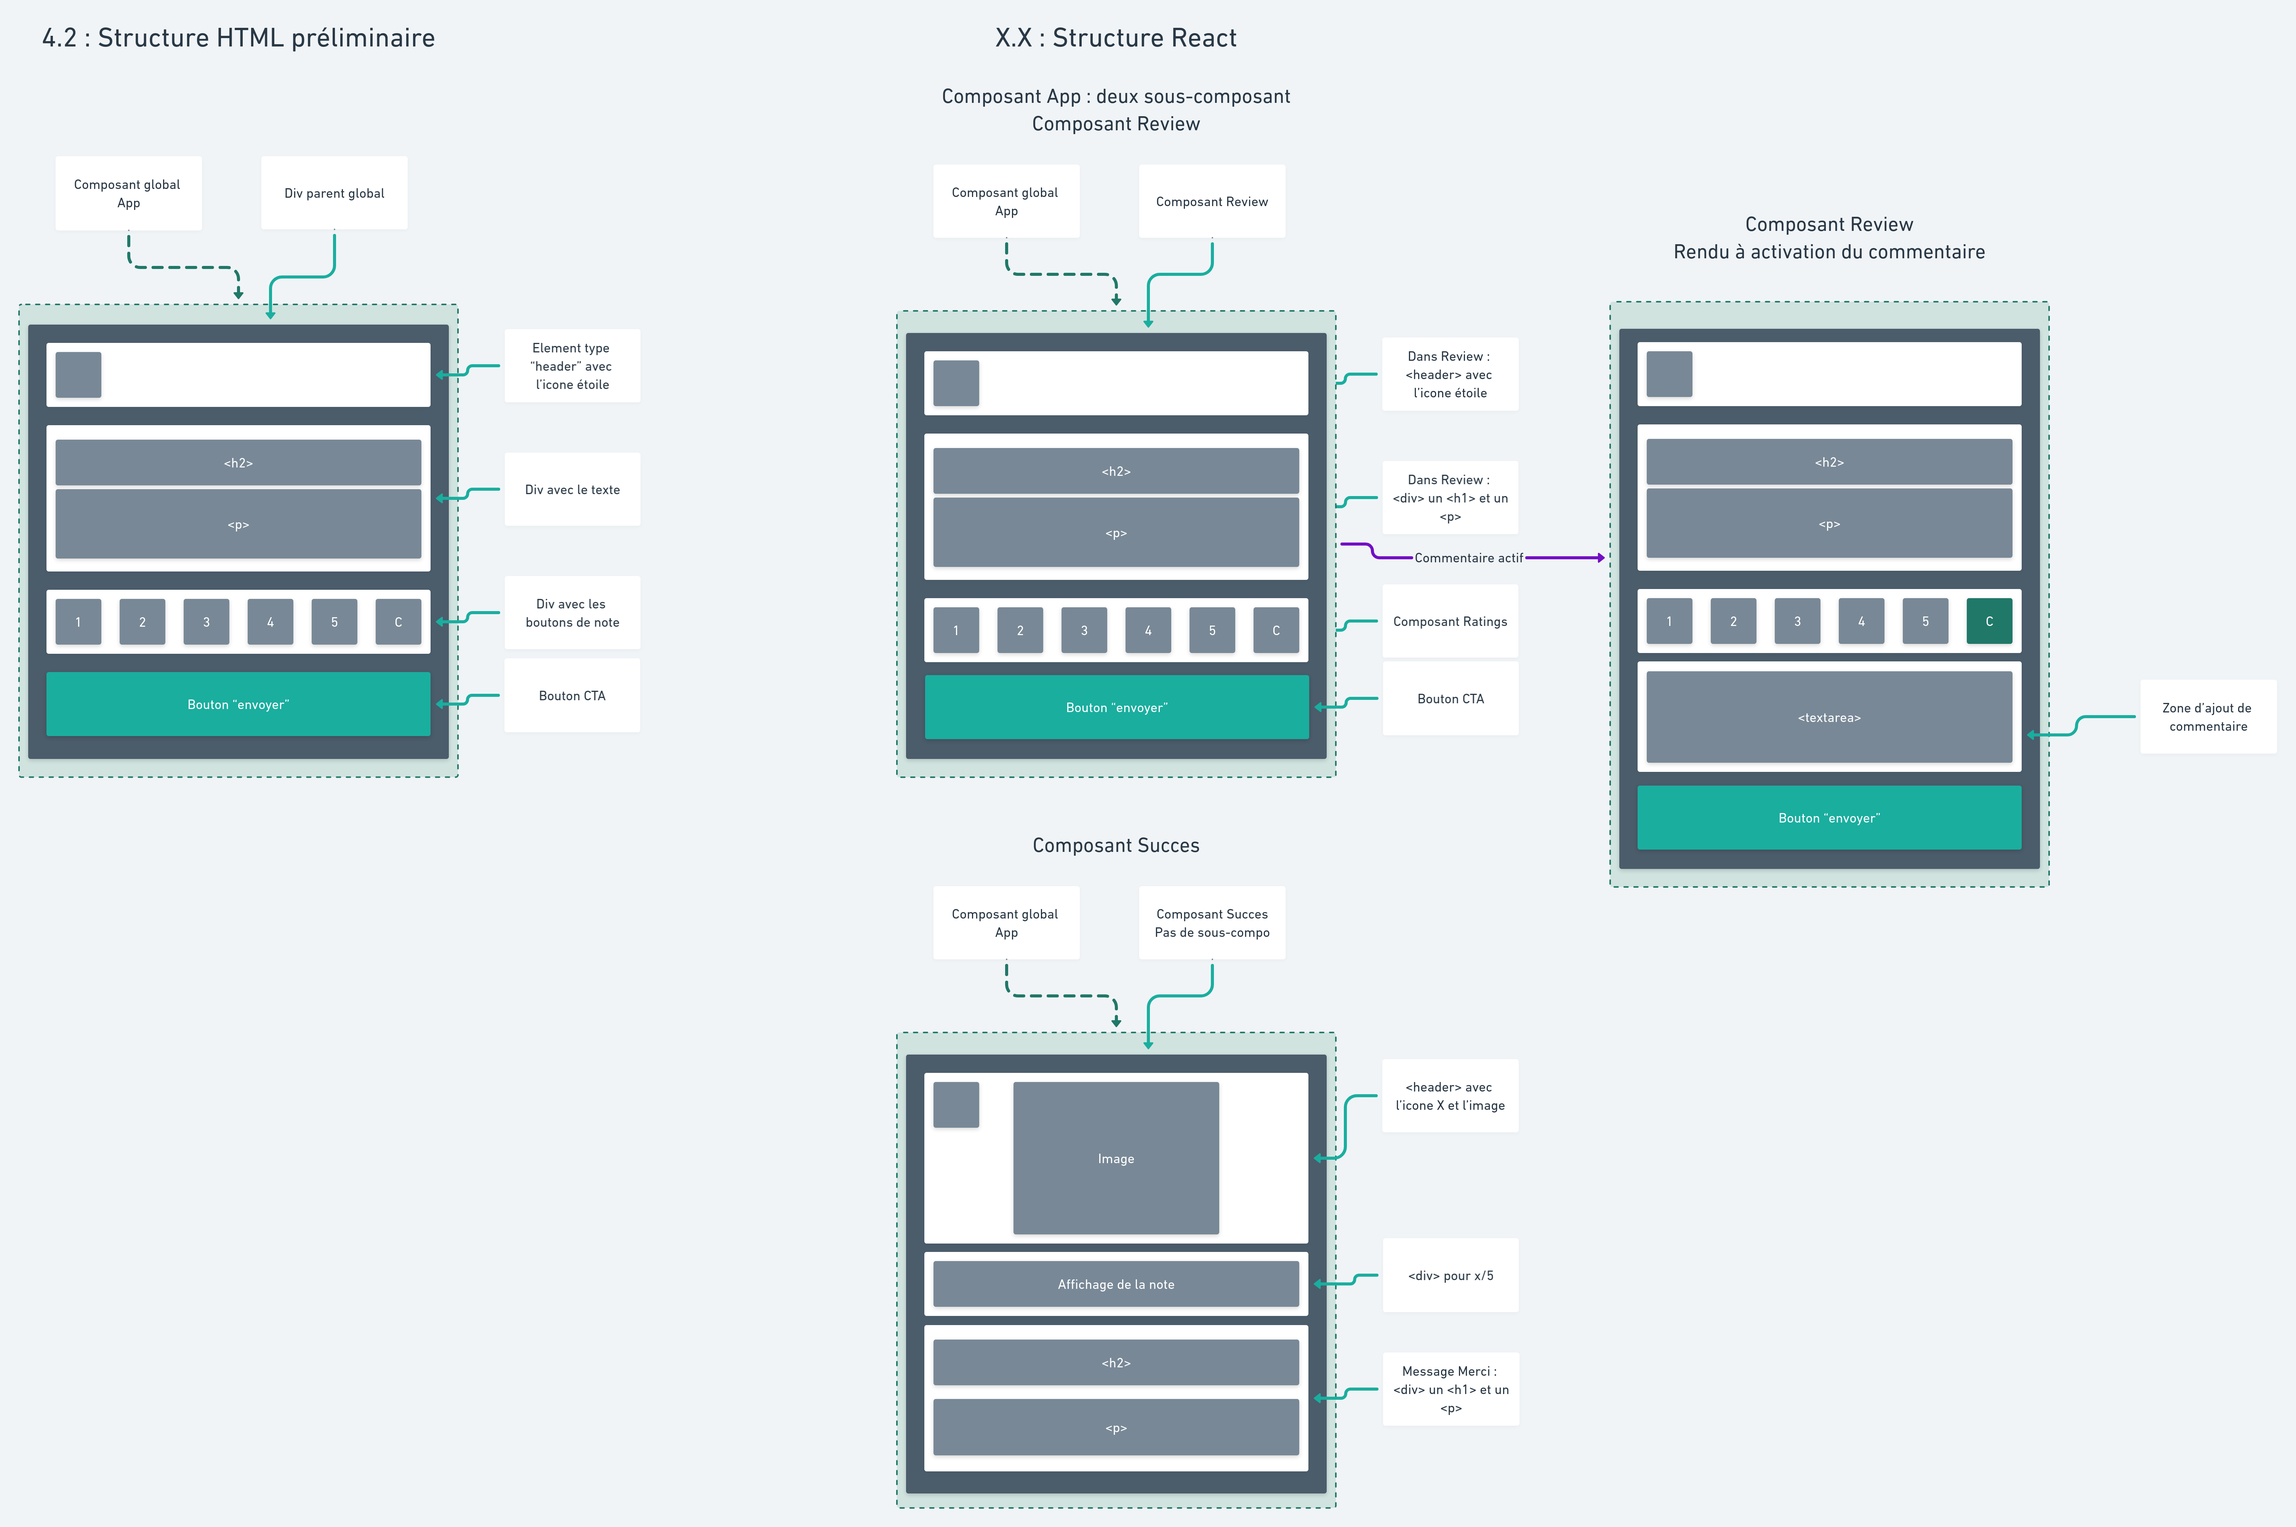
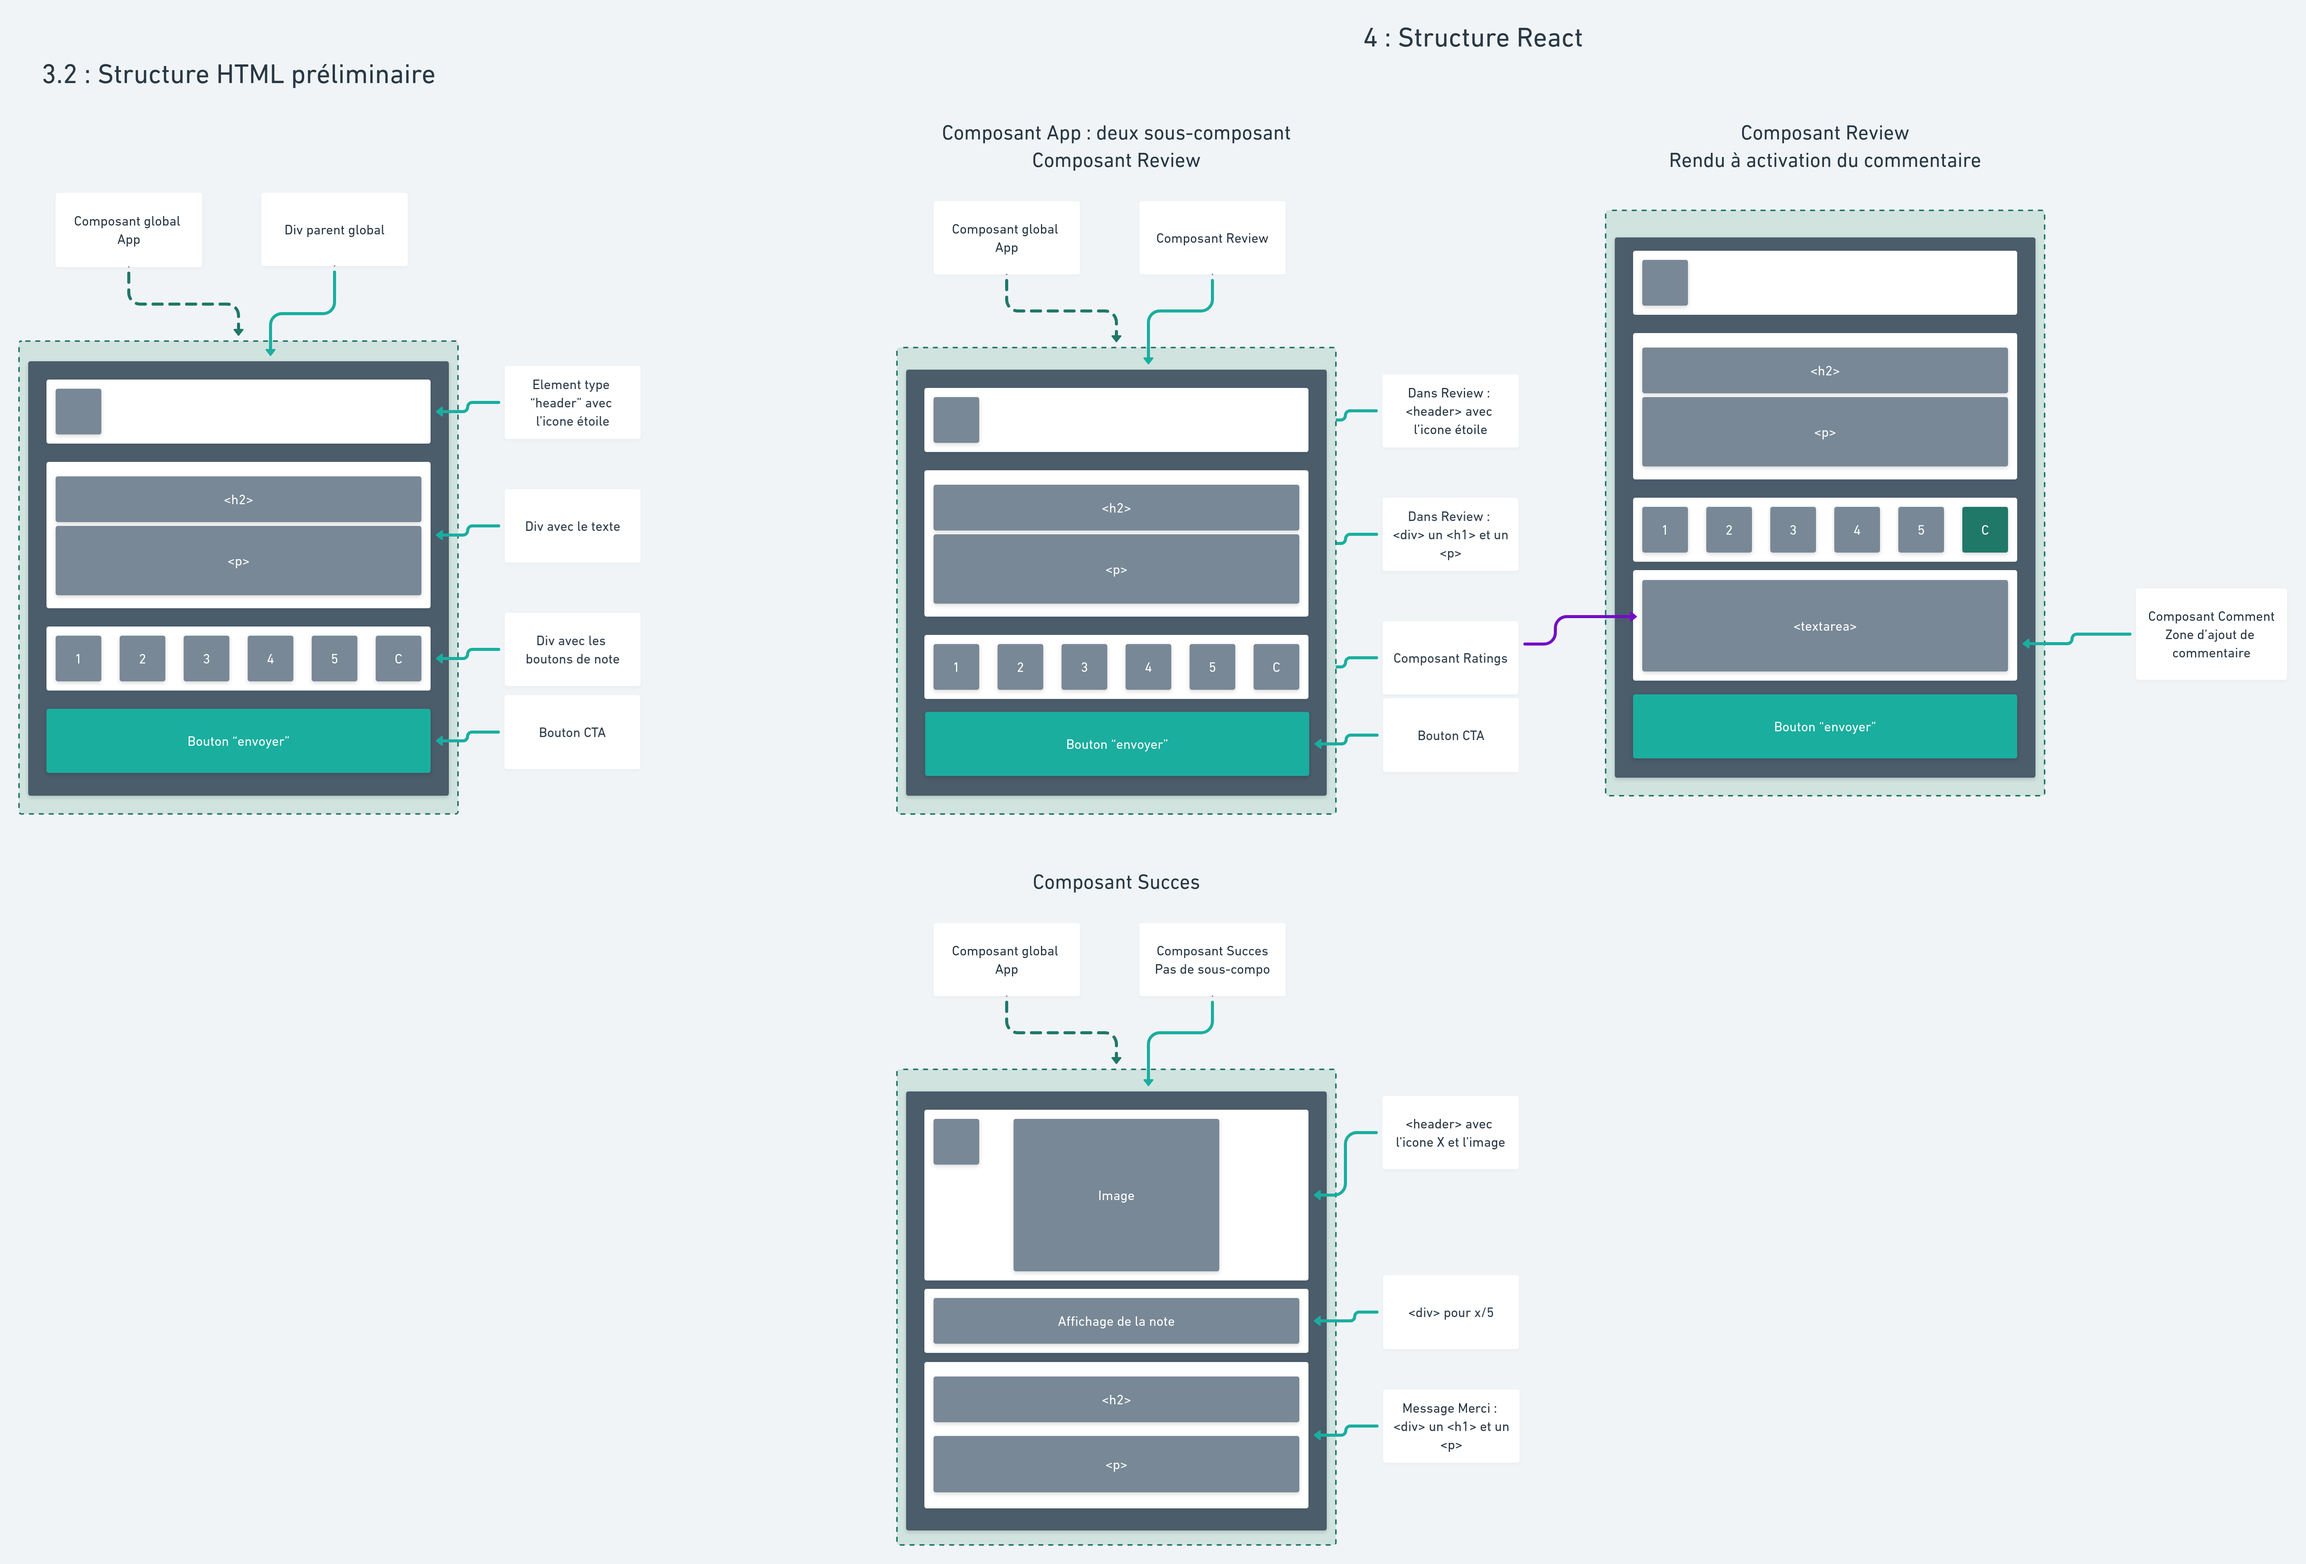
FIx compo

diff --git a/README.md b/README.md
@@ -66,7 +66,7 @@ Les ressources à pointer sont :
   - react-tooltip => Permet d'afficher et de paramétrer des petits tooltip très facilement. [doc](https://github.com/wwayne/react-tooltip#readme) et [demo](https://wwayne.github.io/react-tooltip/)
   - react, react-dom, react-redux, redux, prop-types" => Pour des raisons évidentes
 - La branche *intégration-HTML/SCSS* contenant une intégration "brut" possible dans le composant principal.
-- La branche *solution-matthieu* contenant une solution complete possible
+- La branche *solution-matthieu* contenant une solution complète possible
 
 ### 2. "Par où je commence ?"
 
@@ -88,10 +88,10 @@ La première étape que je conseille c'est de consulter la charte graphique ou l
 // Exemple possible avec des couleurs
 $rouge-fonce: #8B0000;
 $rouge-clair: #DC143C;
-// ainsi que l'signation à d'autre variable
+// ainsi que l'assignation à d'autre variable
 $accentColor: $rouge-clair;
 $backgroudColor: $rouge-fonce;
-// Comme ça, si un jour le besoin de changer la couleur de fond se présente on change tout ici et pas dans CHAQUE fichié où il est utilisé.
+// Comme ça, si un jour le besoin de changer la couleur de fond se présente on change tout ici et pas dans CHAQUE fichier où il est utilisé.
 ```
 
 Libre à vous de jouer avec les couleurs !
@@ -122,8 +122,9 @@ Libre à vous de jouer avec les couleurs !
 On continue ensuite avec la mise en place de notre scss de base, celui qui englobe tout : [index.scss](./src/styles/index.scss)
 Cette feuille de style fait référence directe au fichier [index.html](./src/assets/index.html) et sera commun sur toute l'app. On va donc y mettre les styles de fond qui seront vrais partout.
 Ici deux éléments à styliser : body et #root.
-On appliquera au body les propriétés de fond (sans oublier de les inclure à l'index.html de assets) et à #root un arrière-plan, une taille correspondante à la fenêtre et un centrage de ses éléments au centre.
-On obtient donc une page complètement grise (couleur de l'arrière-plan)
+On appliquera au body les propriétés de polices (sans oublier de les inclure à l'index.html de assets) et à #root un arrière-plan, une taille correspondante à la fenêtre et un centrage de ses éléments au centre.
+
+On obtient donc une page complètement grise (couleur de l'arrière-plan) et prête à recevoir notre composant App.
 
 <details>
   <summary>Solution possible pour le fichier index.scss</summary>
@@ -154,6 +155,7 @@ On obtient donc une page complètement grise (couleur de l'arrière-plan)
 
 Nous allons pour le moment travailler dans le composant App. Libre à vous de le renommer à souhait.
 On veut construire toute la structure HTML de notre "popup" dans [son état au chargement](./doc/design/1.%20Desktop.png).
+
 Un peu de préparation, prenez l'image fournie et poser dans votre tête ou sur papier la structure globale qu'aura votre html (éléments parent/enfant etc).
 Pour cela ou peut faire une schématisation par boite, chaque boite représente un élément, dans ces boites on peut en mettre d'autre qui représente leurs enfants.
 
@@ -163,12 +165,13 @@ Pour cela ou peut faire une schématisation par boite, chaque boite représente 
   ![](./doc/structure_schema/HTML.png)
 
   Avec un schéma comme celui-ci on devine très facilement à quoi ressemblera notre html. On voit même déjà apparaitre certaines propriétés CSS !
-  Par exemple, l'élément global aura surement un ```display: flex;``` en colonne, de même celui des boutons de note un ```display: flex;``` et une répartition sur la longueur.
+  Par exemple, l'élément global aura surement un `display: flex;` en colonne, de même celui des boutons de note un `display: flex;` et une répartition sur la longueur.
   
 </details>
 
 Une fois cette préparation effectuée, on se lance.
-On créait chaque élément html au bon endroit et on leur attribue une class. Le mieux c'est d'utiliser une convention BEM pour le nommage des class.
+On créait chaque élément html au bon endroit et on leur attribue une class. Le mieux c'est d'utiliser la convention BEM pour le nommage des class. Cela nous facilitera grandement la vie pour la mise en style Sass.
+
 Cette convention peut faire peur, voici un petit recap de comment l'utiliser :
 
 - Chaque class prend la class de son parent séparé d'un '__'
@@ -343,18 +346,21 @@ Nous allons réaliser ce projet en utilisant le couple React-Redux. De ce fait u
 Commençons par lister les composants globaux de notre exercice. Pour cela il faut comprendre qu'est-ce qui nécessite la création d'un composant ou non.
 Une approche possible est de diviser l'app en composant par zone "graphique"/sémantique. On peut aussi découper en composant par éléments répétés ou avec un contenu dynamique. Par exemple, un bouton que l'on retrouve à plusieurs endroits dans notre intégration pourrait être un composant, une zone qui utilise des données du state pourrait aussi être un composant.
 En bref, on serait capable de faire un composant pour un peu tout et n'importe quoi, c'est donc à vous de trouver votre découpage, celui qui vous convient.
-De plus, la première découpe n'est qu'indicatif et peut tout à fait évoluer au fur est à mesure que le projet avance.
+
+*De plus, la première découpe n'est qu'indicatif et peut tout à fait évoluer au fur est à mesure que le projet avance.*
 
 <details>
   <summary>Possibilité de découpage des composants</summary>
-  J'ai choisi découper cette app en 4 composants :
-  ![](./doc/structure_schema/React.png)
+
+J'ai choisi découper cette app en 4 composants :
   
 - Un composant principal - *App* - qui se charge d'afficher soit l'interface de notage soit le message de succes
 - Le composant - *Review* - qui gère l'interface de notage
 - Le sous-composant - *Ratings* - qui s'occupe des boutons de note ainsi que celui de commentaire
 - Un composant - *Comment* - permettant l'affichage d'un textarea pour laisser un commentaire en plus d'une note
 - Et enfin le composant - *Succes* - qui affiche le message de succès.
+  
+ ![Schéma React](./doc/structure_schema/React.png)
 
   ```bash
     ├── components
@@ -381,7 +387,7 @@ Une fois les composants posés, on peut commencer la structure de notre projet R
 Nous aurons besoin d'un dossier store, reducers, actions et un dernier dossier middlewares.
 
 <details>
-  <summary>Découpage complet</summary>
+  <summary>Architecture de src complète</summary>
   
   ```bash
     src
